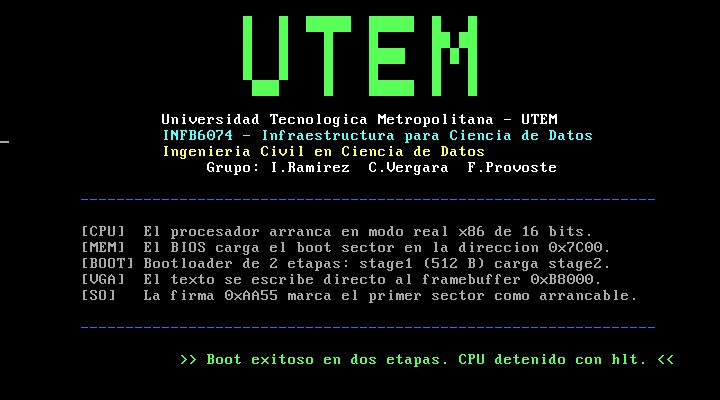
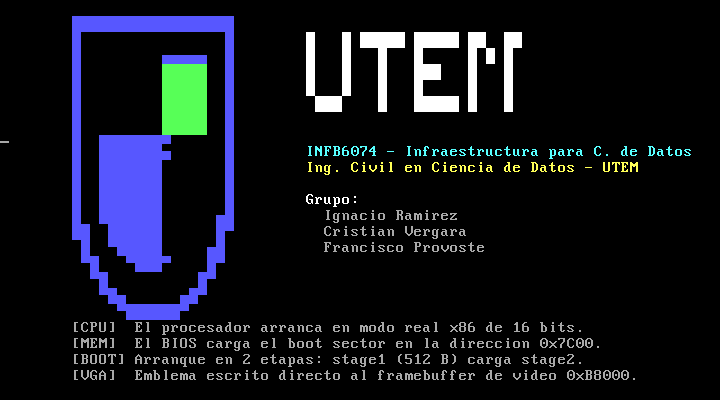
feat: Actualización Stage 2 v2

Changed region(s): [[0.0917, 0.03, 0.9472, 0.96]]

diff --git a/docs/informe.md b/docs/informe.md
@@ -77,9 +77,9 @@ Esta decisión **no es una desviación del enunciado, sino su consecuencia lógi
 
 El uso de una tabla de descriptores recorrida por un único bucle, en lugar de repetir el bloque de impresión por cada línea, es una optimización deliberada de tamaño: reduce el código de la etapa 2 y mantiene el contenido fácilmente editable.
 
-### 4.3 Banner institucional
+### 4.3 Emblema institucional
 
-El banner "UTEM" se construye con el carácter de bloque sólido CP437 `0xDB`, que el hardware VGA renderiza como un rectángulo lleno. Cada letra se diseñó en una rejilla 5×5 y los bytes se generaron de forma controlada para garantizar la alineación exacta de columnas en pantalla.
+El emblema es el **escudo oficial de la UTEM rasterizado** desde el logo institucional. El logo se recortó (solo el escudo, sin el texto), se redujo a una grilla y se clasificó cada píxel en tres categorías (vacío, azul institucional, verde). Para aproximar el contorno curvo del blasón se emplearon los caracteres de **medio bloque** de CP437 (`0xDF` mitad superior, `0xDC` mitad inferior, `0xDB` bloque completo), que duplican la resolución vertical efectiva del modo texto. Cada celda del escudo almacena su propio par `[carácter][atributo de color]`, lo que exige un segundo motor de render que recorre pares carácter/atributo, distinto del motor de cadenas monocolor usado para el texto. El cuadro verde característico del logo se conserva en su posición mediante el atributo de color por celda. Junto al escudo se imprime el texto "UTEM", el curso, la carrera, los integrantes y las líneas explicativas técnicas.
 
 ---
 
@@ -100,7 +100,7 @@ La salida de `od -A x -t x1 -j 0x1FE -N 2 build/disk.img` confirma los bytes `55
 
 ![Ejecución del bootloader en QEMU](capturas/qemu-boot.png)
 
-*Figura 1: pantalla institucional renderizada por la etapa 2 en QEMU. Se observa el banner UTEM en verde, la identificación del curso INFB6074, las cinco líneas explicativas sobre CPU, memoria, bootloader, VGA y SO, y el mensaje de arranque exitoso.*
+*Figura 1: pantalla institucional renderizada por la etapa 2 en QEMU. Se observa el escudo UTEM rasterizado del logo oficial (con su contorno de blasón y el cuadro verde), el texto "UTEM", la identificación del curso INFB6074, la carrera, los integrantes del grupo y las líneas explicativas sobre CPU, memoria, arranque en dos etapas y escritura directa a memoria de video.*
 
 La pantalla aparece limpia y el contenido se dibuja con los colores institucionales (verde, azul, blanco, cian, amarillo). El cursor queda estático tras el último mensaje, confirmando que la CPU entró en el *halt loop*.
 
